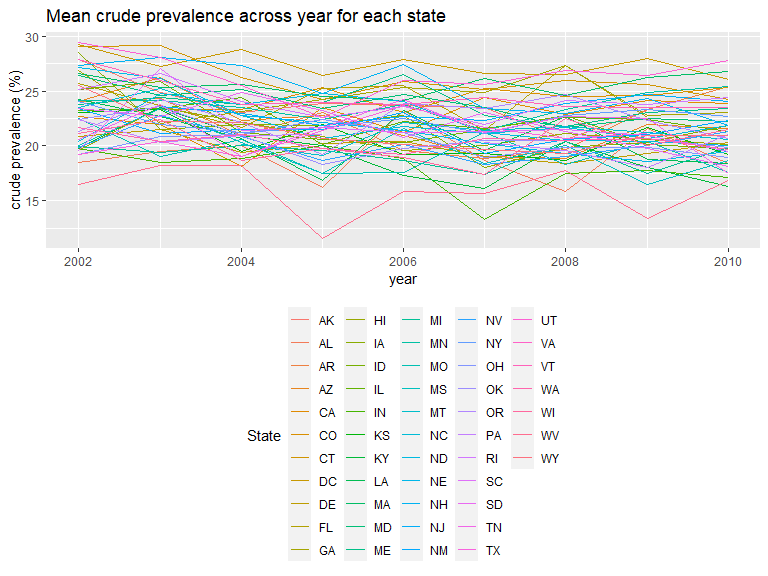
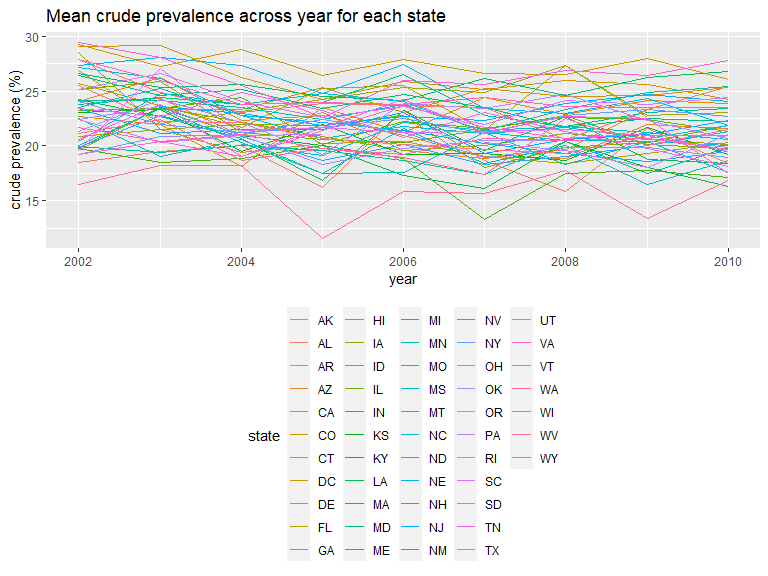
modified problem 3

diff --git a/p8105_hw3_sz3213.md b/p8105_hw3_sz3213.md
@@ -145,16 +145,15 @@ data("brfss_smart2010")
 brfss <-
   brfss_smart2010 |> 
   janitor::clean_names() |> 
-  filter(topic == "Overall Health"&
-         (response == "Excellent" |
-           response == "Very good"|
-           response == "Good"|
-           response == "Fair" |
-           response == "Poor")) |> 
+  rename(state = locationabbr,
+         county = locationdesc) |> 
+  filter(topic == "Overall Health"& 
+           response %in% c("Excellent", "Very good", "Good", "Fair", "Poor"))|> 
   mutate(
     response = 
       factor(response, 
-             levels = c("Poor", "Fair", "Good", "Very good", "Excellent")))
+             levels = c("Poor", "Fair", "Good", "Very good", "Excellent")),
+    county = substring(county, 6))
 ```
 
 The above codes load and clean the dataset `brfss_smart2010`. The
@@ -169,67 +168,69 @@ OH, PA, SC, TX, and WA were observed at 7 or more location in 2010.
 ``` r
 brfss |> 
   filter(year == 2002) |> 
-  group_by(locationabbr) |> 
+  group_by(state) |> 
   summarize(
     n_states = 
-      n_distinct(locationdesc)) |> 
+      n_distinct(county)) |> 
   filter(n_states >= 7) |> 
   knitr::kable()
 ```
 
-| locationabbr | n_states |
-|:-------------|---------:|
-| CT           |        7 |
-| FL           |        7 |
-| MA           |        8 |
-| NC           |        7 |
-| NJ           |        8 |
-| PA           |       10 |
+| state | n_states |
+|:------|---------:|
+| CT    |        7 |
+| FL    |        7 |
+| MA    |        8 |
+| NC    |        7 |
+| NJ    |        8 |
+| PA    |       10 |
 
 ``` r
 brfss |> 
   filter(year == 2010) |> 
-  group_by(locationabbr) |> 
+  group_by(state) |> 
   summarize(
     n_states = 
-      n_distinct(locationdesc)) |> 
+      n_distinct(county)) |> 
   filter(n_states >= 7) |> 
   knitr::kable()
 ```
 
-| locationabbr | n_states |
-|:-------------|---------:|
-| CA           |       12 |
-| CO           |        7 |
-| FL           |       41 |
-| MA           |        9 |
-| MD           |       12 |
-| NC           |       12 |
-| NE           |       10 |
-| NJ           |       19 |
-| NY           |        9 |
-| OH           |        8 |
-| PA           |        7 |
-| SC           |        7 |
-| TX           |       16 |
-| WA           |       10 |
+| state | n_states |
+|:------|---------:|
+| CA    |       12 |
+| CO    |        7 |
+| FL    |       41 |
+| MA    |        9 |
+| MD    |       12 |
+| NC    |       12 |
+| NE    |       10 |
+| NJ    |       19 |
+| NY    |        9 |
+| OH    |        8 |
+| PA    |        7 |
+| SC    |        7 |
+| TX    |       16 |
+| WA    |       10 |
 
-The “spaghetti” plot of the mean crude prevalence against year. Each
-line in the plot represents a state across years.
+The “spaghetti” plot of the mean crude prevalence for the response
+“Excellent” against year. Each line in the plot represents a state
+across years. The plot shows that the data value (crude prevalence) is
+relatively stable from 2002 to 2010, with no significant increase or
+decrease.
 
 ``` r
 brfss |> 
   filter(response == "Excellent") |> 
-  group_by(locationabbr, year) |> 
+  group_by(state, year) |> 
   mutate(
     mean_data_value = mean(data_value)) |> 
-  select(year, locationabbr, mean_data_value) |> 
+  select(year, state, mean_data_value) |> 
   unique() |> 
-  ggplot(aes(x = year, y = mean_data_value, color = locationabbr)) +
+  ggplot(aes(x = year, y = mean_data_value, color = state)) +
   geom_line() +
   labs(y = "crude prevalence (%)", 
-       title = "Mean crude prevalence across year for each state", 
-       color = "State") +
+       title = "Mean crude prevalence across year for each state") +
   theme(legend.position = "bottom")
 ```
 
@@ -245,7 +246,7 @@ conditions. Most people have chosen responses “Very good” or “Good”. In
 
 ``` r
 brfss |> 
-  filter((year == 2006 | year == 2010) & locationabbr == "NY") |> 
+  filter((year == 2006 | year == 2010) & state == "NY") |> 
   ggplot(aes(x = response, y = data_value, color = response)) +
   geom_boxplot() +
   facet_grid(. ~ year) + 
@@ -262,7 +263,15 @@ Load and clean the datasets.
 ``` r
 accel <- 
   read_csv("data/nhanes_accel.csv") |> 
-  janitor::clean_names()
+  janitor::clean_names() |> 
+  pivot_longer(
+    min1:min1440,
+    names_to = "min",
+    values_to = "accel_value",
+    names_prefix = "min") |> 
+  mutate(
+    min = as.numeric(min)
+  )
 
 covar <- 
   read_csv("data/nhanes_covar.csv", skip = 4) |> 
@@ -282,9 +291,10 @@ nhanes_df <-
   inner_join(covar, accel)
 ```
 
-The dataset `nhanes_df` includes 228 observations and 1445 variables of
-1440 MIMS values and subject information such as sequence number, age,
-sex, bmi, and education level.
+The cleaned dataset `nhanes_df` includes 328320 observations and 7
+variables. It holds MIMS values measured in minutes in a 24-hour course.
+The variables also store information such as sequence number, age, sex,
+BMI, and education level.
 
 The table below contains the number of men and women in each education
 category (1, 2, and 3). For both females and males, most subjects have
@@ -296,12 +306,12 @@ possessed education below the high school level.
 ``` r
 nhanes_df |> 
   select(seqn, sex, age, education) |> 
+  unique() |> 
   group_by(sex, education) |> 
   summarize(count = n()) |> 
   pivot_wider(
     names_from = sex,
-    values_from = count
-  ) |> 
+    values_from = count) |> 
   knitr::kable()
 ```
 
@@ -324,6 +334,7 @@ similar educational backgrounds.
 ``` r
 nhanes_df |> 
   select(seqn, sex, age, education) |> 
+  unique() |> 
   ggplot(aes(x = sex, y = age, color = sex)) +
   geom_boxplot() +
   labs(title = "Age distributions by education category for men and women") +
@@ -340,13 +351,8 @@ have higher MIMS measures than females.
 
 ``` r
 nhanes_df |> 
-  rowwise() |> 
-  mutate(
-    accel_sum = 
-      sum(sum
-          (c_across
-            (min1:min1440)))) |> 
-  select(seqn, sex, age, education, accel_sum) |> 
+  group_by(seqn, sex, age, education) |> 
+  summarize(accel_sum = sum(accel_value)) |> 
   ggplot(aes(x = age, y = accel_sum, color = sex)) +
   geom_point() +
   geom_smooth(se = FALSE) +
@@ -370,11 +376,6 @@ category 3 was slightly higher than their male counterparts.
 
 ``` r
 nhanes_df |> 
-  pivot_longer(
-    min1:min1440,
-    names_to = "min",
-    values_to = "accel_value",
-    names_prefix = "min") |> 
   group_by(min, sex, education) |> 
   mutate(
     mean_accel = mean(accel_value),
